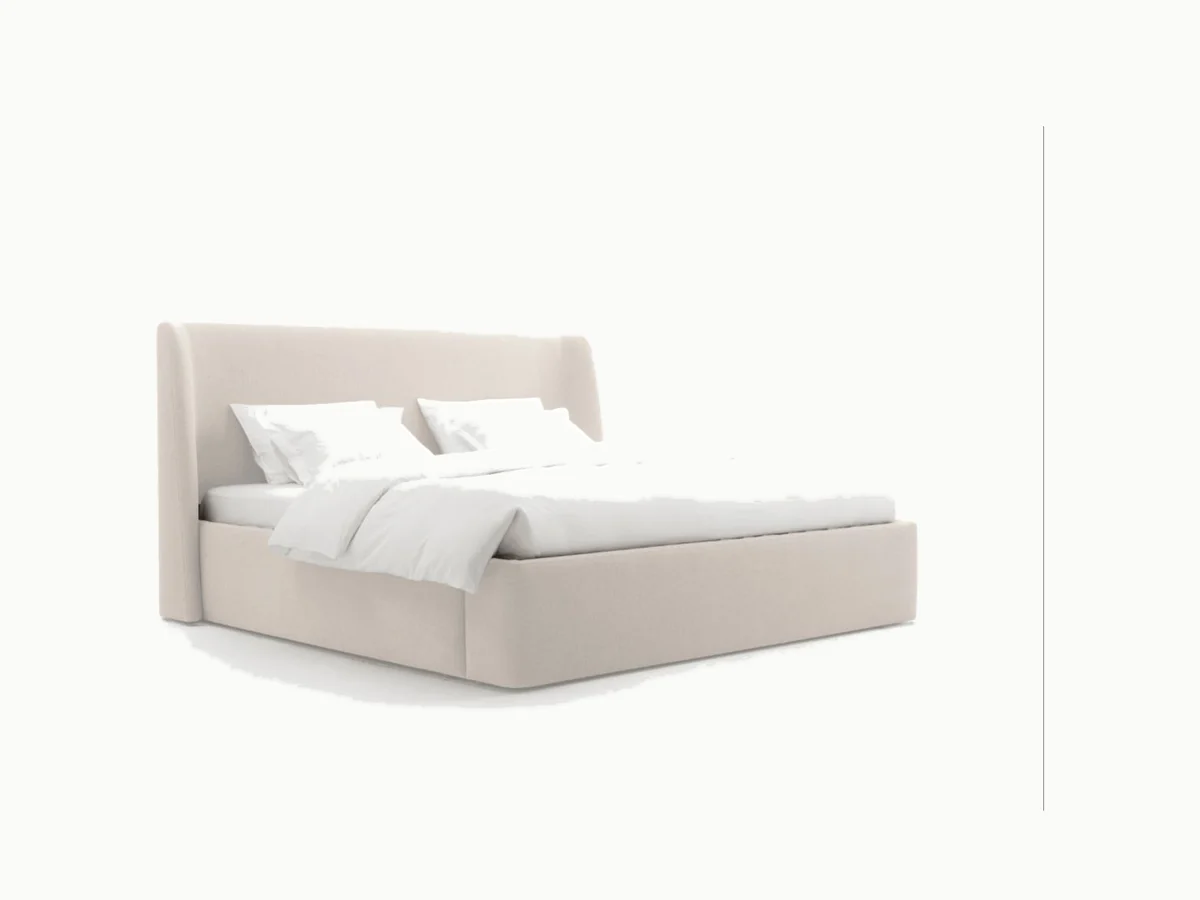
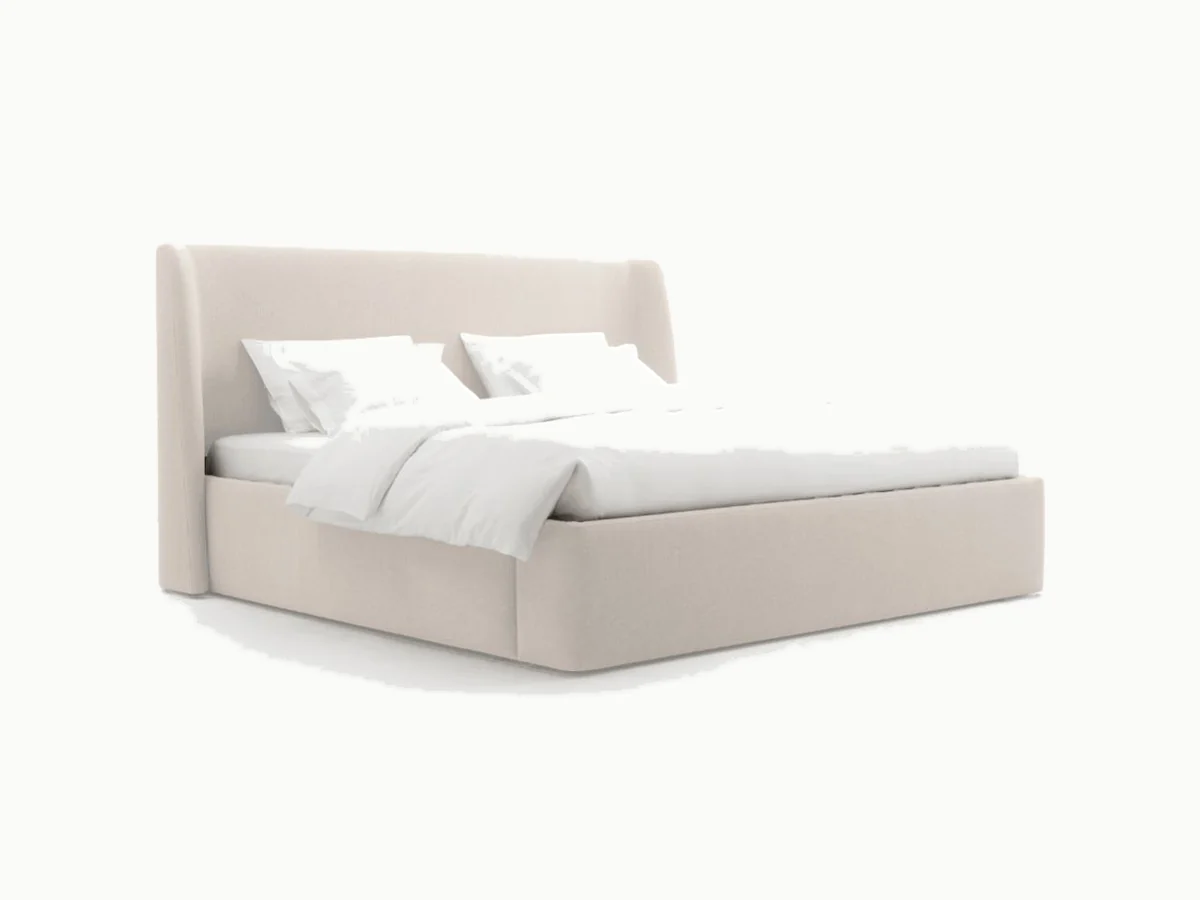
Кровать Novel: срезан край карточки исходника
Claude-Session: https://claude.ai/code/session_01YU1ch6YPskFUwqRi4VRrCW

Changed region(s): [[0.1233, 0.2489, 0.8942, 0.8089]]

diff --git a/dist/RICCA-site/en.html b/dist/RICCA-site/en.html
@@ -31,8 +31,8 @@
 <link rel="preload" as="image" href="img/v3/hero-sofa-cut.webp" imagesrcset="img/v3/hero-sofa-cut-720.webp 720w, img/v3/hero-sofa-cut-1400.webp 1400w, img/v3/hero-sofa-cut.webp 1978w" imagesizes="(min-width: 900px) 60vw, 100vw" fetchpriority="high">
 <link rel="preload" as="font" type="font/woff2" href="fonts/montserrat/montserrat-latin-var-normal.woff2" crossorigin>
 <link rel="preload" as="font" type="font/woff2" href="fonts/montserrat/montserrat-cyrillic-var-normal.woff2" crossorigin>
-<link rel="stylesheet" href="css/fonts-v3.css?v=cfa6b8f9f0">
-<link rel="stylesheet" href="css/site.css?v=cfa6b8f9f0">
+<link rel="stylesheet" href="css/fonts-v3.css?v=f5eee64d1b">
+<link rel="stylesheet" href="css/site.css?v=f5eee64d1b">
 <script>
 /* До первой отрисовки: no-js → js; решение о входе-«занавесе» (≤ 1,6 с). Не играем: повторный визит в этой сессии,
    prefers-reduced-motion, вход по ссылке с #якорем (Instagram → #catalog/sofas), недоступный sessionStorage.
@@ -641,12 +641,12 @@
 
 <div class="toast" id="toast" role="status" aria-live="polite" hidden><span id="toast-text"></span><button type="button" class="toast__open" id="toast-open">Open</button></div>
 
-<script src="js/catalog-data.js?v=cfa6b8f9f0" defer></script>
-<script src="js/works-data.js?v=cfa6b8f9f0" defer></script>
-<script src="js/models-data.js?v=cfa6b8f9f0" defer></script>
-<script src="js/fabrics-data.js?v=cfa6b8f9f0" defer></script>
-<script src="js/lang-en.js?v=cfa6b8f9f0" defer></script>
-<script src="js/cart.js?v=cfa6b8f9f0" defer></script>
-<script src="js/site.js?v=cfa6b8f9f0" defer></script>
+<script src="js/catalog-data.js?v=f5eee64d1b" defer></script>
+<script src="js/works-data.js?v=f5eee64d1b" defer></script>
+<script src="js/models-data.js?v=f5eee64d1b" defer></script>
+<script src="js/fabrics-data.js?v=f5eee64d1b" defer></script>
+<script src="js/lang-en.js?v=f5eee64d1b" defer></script>
+<script src="js/cart.js?v=f5eee64d1b" defer></script>
+<script src="js/site.js?v=f5eee64d1b" defer></script>
 </body>
 </html>

diff --git a/dist/RICCA-site/index.html b/dist/RICCA-site/index.html
@@ -31,8 +31,8 @@
 <link rel="preload" as="image" href="img/v3/hero-sofa-cut.webp" imagesrcset="img/v3/hero-sofa-cut-720.webp 720w, img/v3/hero-sofa-cut-1400.webp 1400w, img/v3/hero-sofa-cut.webp 1978w" imagesizes="(min-width: 900px) 60vw, 100vw" fetchpriority="high">
 <link rel="preload" as="font" type="font/woff2" href="fonts/montserrat/montserrat-latin-var-normal.woff2" crossorigin>
 <link rel="preload" as="font" type="font/woff2" href="fonts/montserrat/montserrat-cyrillic-var-normal.woff2" crossorigin>
-<link rel="stylesheet" href="css/fonts-v3.css?v=cfa6b8f9f0">
-<link rel="stylesheet" href="css/site.css?v=cfa6b8f9f0">
+<link rel="stylesheet" href="css/fonts-v3.css?v=f5eee64d1b">
+<link rel="stylesheet" href="css/site.css?v=f5eee64d1b">
 <script>
 /* До первой отрисовки: no-js → js; решение о входе-«занавесе» (≤ 1,6 с). Не играем: повторный визит в этой сессии,
    prefers-reduced-motion, вход по ссылке с #якорем (Instagram → #catalog/sofas), недоступный sessionStorage.
@@ -686,11 +686,11 @@
 
 <div class="toast" id="toast" role="status" aria-live="polite" hidden><span id="toast-text"></span><button type="button" class="toast__open" id="toast-open">Открыть</button></div>
 
-<script src="js/catalog-data.js?v=cfa6b8f9f0" defer></script>
-<script src="js/works-data.js?v=cfa6b8f9f0" defer></script>
-<script src="js/models-data.js?v=cfa6b8f9f0" defer></script>
-<script src="js/fabrics-data.js?v=cfa6b8f9f0" defer></script>
-<script src="js/cart.js?v=cfa6b8f9f0" defer></script>
-<script src="js/site.js?v=cfa6b8f9f0" defer></script>
+<script src="js/catalog-data.js?v=f5eee64d1b" defer></script>
+<script src="js/works-data.js?v=f5eee64d1b" defer></script>
+<script src="js/models-data.js?v=f5eee64d1b" defer></script>
+<script src="js/fabrics-data.js?v=f5eee64d1b" defer></script>
+<script src="js/cart.js?v=f5eee64d1b" defer></script>
+<script src="js/site.js?v=f5eee64d1b" defer></script>
 </body>
 </html>

diff --git a/dist/RICCA-site/configurator.html b/dist/RICCA-site/configurator.html
@@ -12,17 +12,17 @@
 <link rel="apple-touch-icon" href="img/v3/favicon-v3-180.png">
 <link rel="preload" as="font" type="font/woff2" href="fonts/montserrat/montserrat-latin-var-normal.woff2" crossorigin>
 <link rel="preload" as="font" type="font/woff2" href="fonts/montserrat/montserrat-cyrillic-var-normal.woff2" crossorigin>
-<link rel="stylesheet" href="css/fonts-v3.css?v=cfa6b8f9f0">
-<link rel="stylesheet" href="css/configurator.css?v=cfa6b8f9f0">
+<link rel="stylesheet" href="css/fonts-v3.css?v=f5eee64d1b">
+<link rel="stylesheet" href="css/configurator.css?v=f5eee64d1b">
 <script>document.documentElement.classList.replace('no-js', 'js');</script>
 <script type="importmap">{"imports":{"three":"./vendor/three/build/three.module.js","three/addons/":"./vendor/three/addons/"}}</script>
-<link rel="modulepreload" href="js/cfg/app.js?v=cfa6b8f9f0">
-<link rel="modulepreload" href="js/cfg/params.js?v=cfa6b8f9f0">
-<link rel="modulepreload" href="js/cfg/validate.js?v=cfa6b8f9f0">
-<link rel="modulepreload" href="js/cfg/share.js?v=cfa6b8f9f0">
-<link rel="modulepreload" href="js/cfg/fabrics.js?v=cfa6b8f9f0">
-<script defer src="js/fabrics-data.js?v=cfa6b8f9f0"></script>
-<script type="module" src="js/cfg/app.js?v=cfa6b8f9f0"></script>
+<link rel="modulepreload" href="js/cfg/app.js?v=f5eee64d1b">
+<link rel="modulepreload" href="js/cfg/params.js?v=f5eee64d1b">
+<link rel="modulepreload" href="js/cfg/validate.js?v=f5eee64d1b">
+<link rel="modulepreload" href="js/cfg/share.js?v=f5eee64d1b">
+<link rel="modulepreload" href="js/cfg/fabrics.js?v=f5eee64d1b">
+<script defer src="js/fabrics-data.js?v=f5eee64d1b"></script>
+<script type="module" src="js/cfg/app.js?v=f5eee64d1b"></script>
 </head>
 <body>
 <a class="skip" href="#steps">Перейти к&nbsp;параметрам</a>

diff --git a/dist/RICCA-site/js/catalog-data.js b/dist/RICCA-site/js/catalog-data.js
@@ -1499,7 +1499,7 @@ window.RICCA_CATALOG = [
     type: "Кровать",
     subtitle: "Обволакивающее изголовье · цоколь",
     photos: [
-      {"src": "img/catalog/p-bed-27.webp", "src600": "img/catalog/p-bed-27-600.webp", "alt": "Кровать с высоким обволакивающим изголовьем в молочной ткани — на светлом фоне", "studio": true, "box": [0.739, 0.76], "w": 1200, "h": 900}
+      {"src": "img/catalog/p-bed-27.webp", "src600": "img/catalog/p-bed-27-600.webp", "alt": "Кровать с высоким обволакивающим изголовьем в молочной ткани — на светлом фоне", "studio": true, "box": [0.74, 0.501], "w": 1200, "h": 900}
     ],
     description: "Кровать с высоким обволакивающим изголовьем: мягкие «крылья» по бокам создают уютную нишу. Тканевый цоколь, без ножек. Показана в молочной ткани.",
     options: ["Под размер матраса", "С подъёмным механизмом или без", "Ткань или кожа"],

diff --git a/ricca/js/catalog-data.js b/ricca/js/catalog-data.js
@@ -1499,7 +1499,7 @@ window.RICCA_CATALOG = [
     type: "Кровать",
     subtitle: "Обволакивающее изголовье · цоколь",
     photos: [
-      {"src": "img/catalog/p-bed-27.webp", "src600": "img/catalog/p-bed-27-600.webp", "alt": "Кровать с высоким обволакивающим изголовьем в молочной ткани — на светлом фоне", "studio": true, "box": [0.739, 0.76], "w": 1200, "h": 900}
+      {"src": "img/catalog/p-bed-27.webp", "src600": "img/catalog/p-bed-27-600.webp", "alt": "Кровать с высоким обволакивающим изголовьем в молочной ткани — на светлом фоне", "studio": true, "box": [0.74, 0.501], "w": 1200, "h": 900}
     ],
     description: "Кровать с высоким обволакивающим изголовьем: мягкие «крылья» по бокам создают уютную нишу. Тканевый цоколь, без ножек. Показана в молочной ткани.",
     options: ["Под размер матраса", "С подъёмным механизмом или без", "Ткань или кожа"],
